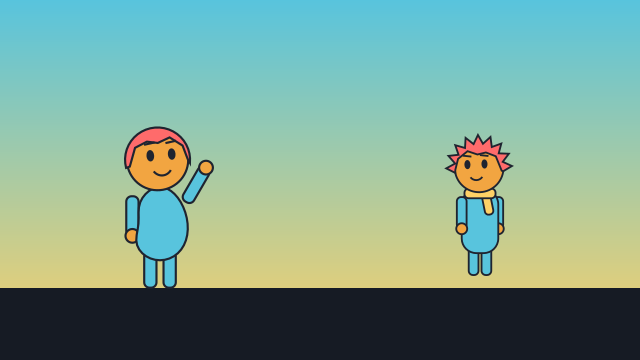
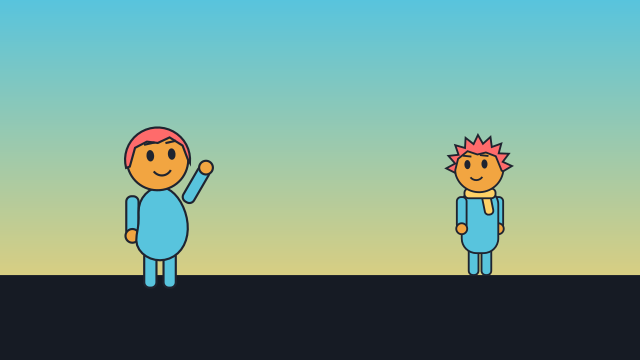
Fix floating stage props and a mouth left behind while speaking
The ground band now reaches up to the deepest thing standing on it
(ground_top), so props and characters at a depth stand on the drawn
ground. A Character keeps one live copy of every part shape for life
(hidden shapes have no points), so a lip-sync swap during a walk, jump,
gesture or keyed motion no longer leaves the old mouth in the list Manim
draws. Tests, DESIGN §69.22, gallery stage media regenerated.

Claude-Session: https://claude.ai/code/session_019dnUhQr2V3uxDgrcPF2jrF

Changed region(s): [[0.0, 0.7639, 1.0, 0.825]]

diff --git a/src/vidgen/cartoon/character.py b/src/vidgen/cartoon/character.py
@@ -183,7 +183,11 @@ class Character(VGroup):
     ``motion`` is its ``cartoon_motion`` setting (``lively``, ``calm``, ``none``; §69.13), read by
     the animations of :mod:`vidgen.cartoon.transition`.
 
-    ``parts`` maps each part name to its live ``VGroup`` (one child: the shape shown).
+    ``parts`` maps each part name to its live ``VGroup``: one child per shape, in
+    :meth:`shape_names` order, all kept for the character's life; the shapes not shown have no
+    points (so Manim draws only the shown one). Its family never changes, so an animation that
+    lists the character's family when it begins draws every frame what is shown, where it is
+    (a swapped-out mouth is never left behind, DESIGN.md §69.22).
     """
 
     def __init__(
@@ -227,7 +231,9 @@ class Character(VGroup):
                 scale_strokes(shape, stroke_factor, stroke_floor)
         # each shape's drawing as point arrays, so a redraw only transforms them (DESIGN.md §69.20)
         self._drawings = {n: {k: shape_drawing(v) for k, v in s.items()} for n, s in self._shapes.items()}
-        self._live: dict[str, tuple[Any, list[VMobject]]] = {}  # part -> (shown child, its members with points)
+        #: part -> shape -> the members of that shape's live copy that are drawn (have points
+        #: when shown), in the order of its drawing
+        self._members: dict[str, dict[str, list[VMobject]]] = {}
         self._pivots = {n: np.array(s.pivot, dtype=float) for n, s in specs.items()}
         self._order = sorted(
             specs,
@@ -253,7 +259,11 @@ class Character(VGroup):
         self._anchor.set_points(np.array([[0, 0, 0], [side, 0, 0], [0, side, 0], [0, side, 0]], dtype=float))
         self.parts: dict[str, VGroup] = {}
         for part_name in self._order:
-            self.parts[part_name] = VGroup(next(iter(self._shapes[part_name].values())).copy())
+            copies = {shape: drawing.copy() for shape, drawing in self._shapes[part_name].items()}
+            self._members[part_name] = {shape: copy.family_members_with_points() for shape, copy in copies.items()}
+            self.parts[part_name] = VGroup(*copies.values())
+            for shape in list(copies)[1:]:  # the rest shape shows
+                self._hide(part_name, shape)
         self.add(self._anchor, *(self.parts[n] for n in self._order))
         self.refresh()
 
@@ -599,19 +609,20 @@ class Character(VGroup):
         self._show_shape(part, before)
 
     def _live_members(self, part: str) -> list[VMobject]:
-        """The members with points of ``part``'s shown shape, found again only when the shape
-        shown changed (a swap puts in a new copy)."""
-        slot = self.parts[part]
-        child = slot.submobjects[0] if slot.submobjects else None
-        cached = self._live.get(part)
-        if cached is None or cached[0] is not child:
-            cached = (child, slot.family_members_with_points())
-            self._live[part] = cached
-        return cached[1]
+        """The drawn members of ``part``'s shown shape (its live copy, kept for the character's
+        life), in the order of the shape's drawing."""
+        return self._members[part][self._shape_name(part)]
+
+    def _hide(self, part: str, shape: str) -> None:
+        """Take the points off ``shape``'s live copy (it stays in the family, not drawn)."""
+        for member in self._members[part][shape]:
+            member.points = np.zeros((0, 3))
 
     def _show_shape(self, part: str, before: str) -> None:
+        """Hide the shape ``before`` when ``part`` now shows another; the next :meth:`refresh`
+        draws the new one (only points change: the family stays as it is, §69.22)."""
         if self._shape_name(part) != before:
-            self.parts[part].submobjects = [self._shapes[part][self._shape_name(part)].copy()]
+            self._hide(part, before)
 
     def _world(self) -> dict[str, np.ndarray]:
         """Each part's matrix in character units: its idle overlay and pose about its pivot, then

diff --git a/tests/test_cartoon_acting.py b/tests/test_cartoon_acting.py
@@ -15,7 +15,7 @@ from vidgen import actions, extensions, registry
 from vidgen.cartoon.acting import CAMERA_EYES_BACK, LOOK_MAX_DEGREES, camera_look, look_pose
 from vidgen.cartoon.cast import ACTION_NEEDS, beat_voice, missing_needs, say_problem, shared_voice_warnings, speaking_characters
 from vidgen.cartoon.character import Character, CharacterState, build_character
-from vidgen.cartoon.transition import PoseChange
+from vidgen.cartoon.transition import Gesture, Jump, KeyedMotion, PoseChange, Walk
 from vidgen.cartoon.visemes import VisemeCue, VisemeTrack
 from vidgen.cli import check_project, validate_warnings
 from vidgen.config import BeatConfig, CharacterEntry, SceneConfig, parse_config
@@ -134,6 +134,54 @@ def test_lip_sync_layer_keeps_the_pose_and_an_emote_while_speaking() -> None:
     assert c.shown_shape("mouth") == "open"   # rest: the new expression's mouth
     c.stop_lip_sync()
     assert c.shown_shape("mouth") == "open"
+
+
+def _moves(c: Character) -> dict[str, Any]:
+    """One of each animation that moves a character (walk_to / enter / exit, jump, gesture,
+    keyframes and move_along, a pose change), made when asked (they read where it stands)."""
+    x0 = float(c.feet()[0])
+    return {
+        "walk": lambda: Walk(c, x0 + 3.0),
+        "enter": lambda: Walk(c, x0, start_x=x0 - 4.0),
+        "jump": lambda: Jump(c),
+        "gesture": lambda: Gesture(c, "wave"),
+        "keyed": lambda: KeyedMotion(c, lambda t: {"x": x0 + 2.0 * t, "y": 0.5 * t, "rotate": 10.0 * t}, run_time=1.0),
+        "pose": lambda: PoseChange(c, pose="pointing", run_time=1.0),
+    }
+
+
+@pytest.mark.parametrize("move", ["walk", "enter", "jump", "gesture", "keyed", "pose"])
+def test_a_speaking_character_takes_its_whole_mouth_along(move: str) -> None:
+    """Manim draws, every frame of an animation, the family members it listed when the
+    animation began (the character's family, flattened). A mouth shape swapped by lip sync while
+    the character moves must not leave the old shape in that list: no stray mouth stays behind
+    where the speaking started, and the mouth stays inside the head (the Step 88 review video)."""
+    from manim.utils.family import extract_mobject_family_members
+
+    track = VisemeTrack(tuple(VisemeCue(k * 0.1, (k + 1) * 0.1, v) for k, v in enumerate("AOMEUOAOEA" * 3)))
+    c = figure()
+    c.start_idle()   # blinks swap the eyes' shape too
+    now = [0.0]
+    c.lip_sync(track, clock=lambda: now[0])
+    animation = _moves(c)[move]()
+    listed = c.get_family()   # what Scene.get_moving_mobjects lists when the animation begins
+    animation.begin()
+    shapes = set()
+    for frame in range(1, FPS + 1):
+        now[0] += FRAME
+        animation.interpolate(frame / FPS)
+        shapes.add(c.shown_shape("mouth"))
+    assert len(shapes) > 2   # the mouth changed shape while it moved
+    drawn = extract_mobject_family_members(listed, only_those_with_points=True)
+    family = {id(m) for m in c.get_family()}
+    assert [m for m in drawn if id(m) not in family] == []   # nothing left behind
+    head = c.parts["head"]
+    low, high = head.get_corner(np.array([-1, -1, 0])), head.get_corner(np.array([1, 1, 0]))
+    mouth = c.parts["mouth"].family_members_with_points()
+    assert mouth and all(m in drawn for m in mouth)
+    for member in mouth:
+        points = member.points[:, :2]
+        assert (points >= low[:2] - 1e-6).all() and (points <= high[:2] + 1e-6).all(), move
 
 
 # ----- the actions on a character (no render) ---------------------------------------------------------

diff --git a/tests/test_cartoon_stage.py b/tests/test_cartoon_stage.py
@@ -20,6 +20,7 @@ from vidgen.cartoon.stage import (
     draw_order,
     facing_towards_centre,
     feet_point,
+    ground_top,
     mark_x,
     stage_layout,
 )
@@ -58,6 +59,35 @@ def test_depth_scales_and_raises() -> None:
     assert depth_scale(0) == 1.0 and depth_scale(1) == FAR_SCALE and depth_scale(0.5) == pytest.approx((1 + FAR_SCALE) / 2)
     assert feet_point(0.5, 0.0, 0.2, 16.0, 8.0) == pytest.approx((0.0, -2.4))   # 0.2 of 8 above the bottom edge (-4)
     assert feet_point(0.25, 1.0, 0.2, 16.0, 8.0) == pytest.approx((-4.0, -2.4 + FAR_RISE * 8))
+
+
+@pytest.mark.parametrize(
+    "params",
+    [
+        {   # examples/cartoon's yard: a house and a tree further back (they floated, Step 88's review)
+            "props": [{"prop": "house", "at": 0.17, "depth": 0.7}, {"prop": "tree", "at": 0.84, "depth": 0.5}, {"prop": "box", "at": 0.43}, "cloud"],
+            "characters": [{"name": "pip", "at": "left"}, {"name": "kit", "at": "right", "depth": 0.3}],
+        },
+        {"ground": 0.0, "characters": [{"name": "pip", "depth": 1.0}], "props": [{"prop": "rock", "depth": 0.2}]},
+        {"ground": 0.35, "characters": ["pip", {"name": "kit", "at": "far_right", "depth": 0.9}]},
+    ],
+)
+def test_everything_on_the_ground_stands_inside_the_ground_band(params: dict[str, Any]) -> None:
+    """The ground band reaches up to the deepest thing standing on it: no prop or character at
+    a depth stands above the drawn ground (props with a ``lift`` hang in the air)."""
+    p = stage_params(**params)
+    fw, fh = 16.0, 9.0
+    top = (ground_top(p.ground, p.items()) - 0.5) * fh   # the band's top edge, as the scene draws it
+    bottom = -fh / 2
+    placements = stage_layout(p.items(), marks=p.marks, ground=p.ground, size=p.size, frame_width=fw, frame_height=fh)
+    lifted = {item.name for item in p.items() if item.lift > 0}
+    standing = [place for place in placements if place.name not in lifted]
+    assert standing and any(place.depth > 0 for place in standing)
+    for place in standing:
+        assert bottom <= place.feet[1] <= top + 1e-9, place.name
+    deepest = max(standing, key=lambda place: place.depth)
+    assert deepest.feet[1] == pytest.approx(top)   # the band ends where the deepest one stands
+    assert ground_top(0.2, [StageItem("sun", "prop", 0.5, depth=1.0, lift=0.5)]) == 0.2   # hanging: not counted
 
 
 def test_draw_order_is_back_to_front_and_stable() -> None:

diff --git a/src/vidgen/scenes/stage.py b/src/vidgen/scenes/stage.py
@@ -253,7 +253,7 @@ class Stage(NarratedScene):
         ground: float = Field(0.2, ge=0.0, le=0.6)
         """Height of the ground line (where the characters' feet are) above the bottom edge, as a fraction of the frame height."""
         ground_color: ThemeColor | Literal[False] | None = None
-        """Fill below the ground line; none: surface on a colour background, nothing on a picture; false: nothing."""
+        """Fill below the ground line, up to where the deepest character or prop on the ground stands; none: surface on a colour background, nothing on a picture; false: nothing."""
         marks: dict[Annotated[str, Field(pattern=r"^[A-Za-z0-9_]+$")], Annotated[float, Field(ge=0.0, le=1.0)]] = {}
         """Own marks: name -> x from 0 (left edge) to 1 (right edge), besides far_left 0.1, left 0.25, centre 0.5, right 0.75, far_right 0.9."""
         characters: list[StageCharacter] = []
@@ -550,8 +550,9 @@ class Stage(NarratedScene):
         ground_color = p.ground_color
         if ground_color is None and not p.has_picture():
             ground_color = DEFAULT_GROUND_COLOR
-        if ground_color and p.ground > 0:
-            band_height = p.ground * fh
+        top = ground_top(p.ground, p.items())  # up to the deepest thing standing on it (§69.6)
+        if ground_color and top > 0:
+            band_height = top * fh
             band = Rectangle(width=fw, height=band_height, stroke_width=0)
             band.set_fill(resolve_color(ground_color, self.theme), opacity=1.0)
             band.move_to([0.0, -fh / 2 + band_height / 2, 0.0])

diff --git a/src/vidgen/cartoon/stage.py b/src/vidgen/cartoon/stage.py
@@ -103,6 +103,15 @@ def feet_point(x_fraction: float, depth: float, ground: float, frame_width: floa
     return (x, y)
 
 
+def ground_top(ground: float, items: Sequence[StageItem] = ()) -> float:
+    """The top of the ground area (a fraction of the frame height above the bottom edge): the
+    ground line, or higher, the line where the deepest item standing on the ground (``lift`` 0)
+    stands, so everything at a depth stands on the drawn ground, not above it (§69.6). Items
+    with a ``lift`` hang in the air and do not count."""
+    depths = [item.depth for item in items if item.lift == 0]
+    return ground + FAR_RISE * max(depths, default=0.0)
+
+
 def draw_order(depths: Sequence[float]) -> list[int]:
     """Indices of ``depths`` from the back to the front: deeper first, ties in list order."""
     return sorted(range(len(depths)), key=lambda i: (-depths[i], i))
@@ -193,6 +202,7 @@ __all__ = [
     "draw_order",
     "facing_towards_centre",
     "feet_point",
+    "ground_top",
     "known_marks",
     "layer_half_extent",
     "layer_transform",

diff --git a/tests/test_cartoon_props.py b/tests/test_cartoon_props.py
@@ -178,6 +178,7 @@ def test_stage_renders_props(make_project, tmp_path: Path) -> None:
     named = {obj["name"]: obj for obj in objects if obj["name"]}
     assert [named[n]["kind"] for n in ("tree", "sun", "table", "well", "pip")] == ["prop"] * 4 + ["character"]
     assert named["tree"]["order"] < named["table"]["order"] < named["pip"]["order"]   # back to front; a character in front of a prop
+    assert named["ground"]["bbox"][1] <= named["tree"]["bbox"][3] + 0.5   # the band reaches up to the tree at depth 0.6
 
 
 @pytest.mark.render

diff --git a/src/vidgen/api.py b/src/vidgen/api.py
@@ -152,6 +152,7 @@ from vidgen.cartoon.stage import (  # noqa: E402
     StagePlacement,
     facing_towards_centre,
     feet_point,
+    ground_top,
     layer_half_extent,
     layer_transform,
     mark_x,
@@ -426,6 +427,7 @@ VIDGEN_NAMES: tuple[str, ...] = (
     "part_target_names",
     "path_length",
     "feet_point",
+    "ground_top",
     "MARKS",
     "StageItem",
     "StagePlacement",

diff --git a/DESIGN.md b/DESIGN.md
@@ -686,6 +686,7 @@ Step 84 (§69.17) adds to `Character` the attributes `looked_at` and `passage` a
 Step 86 (§69.19) adds `PlayedAction`, `FoleyCue`, `foley_cues`, the `NarratedScene` hook
 `action_foley(action, options, animations, start, seconds)` (does nothing by default), `Walk.heights`
 and `Walk.phases` / `Jump.phases`, and compatibly the `SfxEvent` field `duck` (default `False`).
+The fixes after Step 88 (§69.22) add `ground_top` (compatible).
 Anything not exported from `vidgen.api` is internal and may change.
 
 ### 6.5 Refinements (Step 2)
@@ -4932,7 +4933,7 @@ take `CharacterName` options.
 - **API**: `set_part(part, angle=, scale=, shift=, shape=)` (values not given keep the pose),
   `swap(part, shape)`, `reset(part=None)`, `face`, `turn`, `state()` → `CharacterState(facing,
   parts)`, `set_state(state)`, `pose_of`, `shape_names`, `parent_of`, `has_part`, `draw_order`,
-  `parts` (name → live `VGroup`). All changes return the character (chainable). Animate poses by
+  `parts` (name → live `VGroup`; since §69.22 one child per shape, only the shown one has points). All changes return the character (chainable). Animate poses by
   calling `set_part` / `set_state` from an updater, or with `PoseChange` (§69.3);
   `.animate.set_part(...)` would interpolate points linearly (a chord, not an arc).
   `copy()` is a deep copy with its own poses.
@@ -5278,7 +5279,8 @@ lint, Step 84) reuse it.
   gradient: one `Rectangle` filled with the colours, `sheen_direction` DOWN, first colour at the
   top); none: nothing drawn (the theme's background). `image` with `generate`, or either with
   `background`, is an error. `ground` (0..0.6, default 0.2); `ground_color` (a band from the
-  ground line to the bottom edge, named `ground`; default `surface` without a picture, nothing
+  bottom edge up to `ground_top(ground, items)`: the ground line, or the line where the deepest
+  character or prop on the ground stands, §69.22; named `ground`; default `surface` without a picture, nothing
   with one; `false`: nothing). `marks` (identifier -> 0..1). `size` (0.45). `idle` (true). `cartoon_motion` (none: the video's; §69.13).
   `characters: list[StageCharacter]` (a string is the name): `name: CharacterName`, `at` (mark or
   x), `depth` 0..1, `scale` (0, 3], `facing` `auto | right | left`, `pose`, `expression` (none:
@@ -6106,7 +6108,8 @@ time to save:
 - **Part drawings, transformed only** (`cartoon/character.py`): each part shape's points are
   kept once per character (`shape_drawing`: the point arrays of its family members with points),
   and the live members of each part's shown shape are found again only when the shape shown
-  changes (`_live_members`, keyed by the shown child). `refresh` then only applies the matrices:
+  changes (`_live_members`, keyed by the shown child; since §69.22 each shape keeps one live
+  copy and its members are listed once). `refresh` then only applies the matrices:
   1.25 → 0.58 s in `yard`.
 - **Part drawings by look** (`look_parts(look, colors)`, `look_key`): the generator's parts for
   a look in resolved colours are drawn once per process and shared (a `Character` copies the
@@ -6154,3 +6157,47 @@ time to save:
   Not fixed (Manim's encoder options are not reachable from vidgen; changing the preview size
   would change every preview): compare renders by their frames before encoding, or at sizes that
   are multiples of 16. Backlog.
+
+### 69.22 Fixes after the Phase H review: the ground under the set, the mouth while moving
+
+Two faults the owner saw in the Step 88 review video (`examples/cartoon` at 1280x720):
+
+- **Props standing above the ground**: a thing at `depth` d stands `FAR_RISE` × d of the frame
+  height above the ground line (`feet_point`), but the `ground_color` band ended at the ground
+  line, so the house (depth 0.7) and the tree (0.5) in `yard` stood on the sky. The band now
+  reaches up to `ground_top(ground, items)` (`cartoon/stage.py`, exported): `ground + FAR_RISE ×`
+  the largest depth of the items on the ground (`lift` 0; a lifted sun or cloud hangs in the air
+  and does not count), so everything at a depth stands inside the drawn ground and the deepest
+  thing on its top edge, as a thing at depth 0 stood on the band's edge before. The depth
+  geometry itself is unchanged (feet, sizes, `grounds` for `keyframes` y 0), so characters,
+  props, walks and lint keep their places; only the band grows, and only on stages with
+  something at a depth (the gallery's `stage` sample, `kit` at 0.3, changed a little). Chosen
+  over keeping the lift inside a fixed band (which would move every depth-0 thing down) and over
+  a band always up to depth 1 (which would change every stage). Layers: `background` and
+  `middle` layers are drawn behind the band, so its taller top covers a little more of their
+  lower part (hills keep their tops; a layer meant to sit on the horizon goes at a `y` at or
+  above `ground_top`). A picture (`image`, `generate`) has no band unless `ground_color` is
+  given (then the same rule); its own floor must reach up to where its deepest things stand.
+  Test: `tests/test_cartoon_stage.py` (every placement on the ground lies between the bottom
+  edge and the band's top, for the example's yard and two more stages) and the props render test
+  (the band's top is at or above the tree at depth 0.6).
+- **A mouth left behind**: while `dot` walked and spoke, a copy of her mouth stayed where the walk
+  began. Lip sync (and blinks, expressions) changed a part's shape by replacing the part slot's
+  child with a fresh copy of the shape. Manim lists, when an animation begins, the moving
+  mobjects as the flattened families (`Scene.get_moving_mobjects` returns family members), and
+  draws that list on every frame: the replaced child stayed in the list, no longer in the
+  character, so `shift` and `refresh` no longer moved it, and it was drawn where it was when it
+  was swapped out (the camera's follow path lists the same way). The same held for every
+  animation on a speaking or blinking character (walk, enter, exit, jump, gesture, keyframes,
+  `move_along`, pose changes). Now a `Character` keeps one live copy of every shape of every
+  part for its whole life (`parts[name]` holds them in `shape_names` order); the shapes not shown
+  have no points, so Manim draws only the shown one, and a swap only moves points (the old
+  shape's are emptied, `refresh` draws the new one). The family never changes, so any list made
+  from it stays right, and a style set on the character (a fade, `dim`) is kept by every shape.
+  Cost: a few more family members per character (the hidden shapes, not drawn). Test:
+  `tests/test_cartoon_acting.py` (for a walk, an entrance, a jump, a gesture, a keyed motion and
+  a pose change of a speaking, blinking character: what Manim would draw from the list made at
+  the start holds nothing outside the character, and every mouth point lies in the head's box;
+  it failed for all six before the fix).
+- **The review video again**: `/home/claude/work/phase-h-review/cartoon_review_v2.mp4` (the same
+  scratch copy and Kokoro audio, 1280x720, 59.93 s).

diff --git a/HANDOFF.md b/HANDOFF.md
@@ -8247,3 +8247,41 @@ How to test
   tests/test_builtin_scenes.py` (483, 12 s); `-m render tests/test_cartoon_*.py` (16, 7 s);
   `-m render tests/test_builtin_scenes.py -k stage` (2, 2 s); `-m render
   tests/test_phase_h_review.py` (1, 16 s). The full suite was not run (not asked).
+
+## Step 88a — Fix floating stage props and a mouth left behind while speaking
+
+What was done (two faults the owner saw in `cartoon_review.mp4`; DESIGN §69.22)
+- **Floating set**: things at `depth` d stand `FAR_RISE` × d above the ground line, but the
+  `ground_color` band stopped at the ground line, so the house (0.7) and tree (0.5) in `yard`
+  stood on the sky. New `ground_top(ground, items)` (`cartoon/stage.py`, exported from
+  `vidgen.api`): the ground line raised to where the deepest item with `lift` 0 stands; the
+  stage's band goes up to it. Depth geometry, walks, keyframes and lint are unchanged; stages
+  without depth look as before. A picture still has no band unless `ground_color` is given.
+- **Mouth left behind**: lip sync (and blinks / expressions) swapped a part slot's child for a
+  fresh copy. Manim lists the flattened family when an animation begins and draws that list every
+  frame, so the swapped-out mouth stayed drawn where the walk began. A `Character` now keeps one
+  live copy of every shape of each part for life; hidden shapes have no points; a swap only
+  empties / redraws points. Covers walk, enter, exit, jump, gesture, keyframes, `move_along`,
+  pose changes and the camera follow path (all use the same family list).
+- Review video again (same scratch copy `cartoon_tts`'s audio and YAML in
+  `scratchpad/fix2/proj`, 1280x720, 68 s wall, capped): `/home/claude/work/phase-h-review/
+  cartoon_review_v2.mp4` (59.93 s). Stills: at 6 s the house and tree stand on the green; dot's
+  walk at 15.3–16.5 s shows one mouth, moving with her (before: a dark mouth stayed on the door).
+- Gallery `stage` regenerated (`kit` at depth 0.3: the band slightly higher).
+
+Files touched
+- `src/vidgen/cartoon/character.py`, `src/vidgen/cartoon/stage.py`, `src/vidgen/scenes/stage.py`,
+  `src/vidgen/api.py`, `DESIGN.md` (§6.4, §69 Character, §69.6, §69.20, new §69.22), `docs/CONFIG.md`,
+  `src/vidgen/data/guide/AGENTS.md` (+ `AGENTS.md`), `docs/gallery/stage.md` + media,
+  `tasklist.md`, tests `test_cartoon_acting.py`, `test_cartoon_stage.py`, `test_cartoon_props.py`.
+
+Public interfaces
+- Added `ground_top` (compatible). `Character.parts[name]` now holds one child per shape (only
+  the shown one has points) instead of one child.
+
+How to test
+- `-m "not render" tests/test_docs.py tests/test_guide.py tests/test_gallery.py
+  tests/test_schema.py tests/test_phase_h_review.py tests/test_cartoon_*.py` (547 passed);
+  `-m render tests/test_cartoon_*.py tests/test_phase_h_review.py` (17 passed); `-m render
+  tests/test_builtin_scenes.py -k stage` (2 passed). The new mouth test failed for all six
+  motions before the fix.

diff --git a/docs/CONFIG.md b/docs/CONFIG.md
@@ -3879,7 +3879,7 @@ never leaves the stage.
 | `generate` | str \| mapping | none | a generated background instead of `image` (not both): the prompt, or `{prompt, negative, style, aspect, seed, format}`, with the video's [`cartoon_style`](#generated-backgrounds-cartoon_style) added; leave room for the characters (an empty middle, the ground visible) |
 | `background` | color \| list of colors | none | without a picture: one colour, or two or more for a gradient from the top down; none: the theme's background |
 | `ground` | float 0–0.6 | `0.2` | height of the ground line above the bottom edge, as a fraction of the frame height |
-| `ground_color` | color \| `false` | none | fill below the ground line; none: `surface` on a colour background, nothing on a picture; `false`: nothing |
+| `ground_color` | color \| `false` | none | fill below the ground line, up to where the deepest character or prop on the ground (no `lift`) stands, so things at a `depth` stand on it; none: `surface` on a colour background, nothing on a picture; `false`: nothing |
 | `marks` | mapping | `{}` | own marks, name -> x from 0 to 1 (`{door: 0.85}`); a built-in name moves that mark |
 | `characters` | list | `[]` | the characters on the stage: a name, or a mapping (below); each at most once |
 | `size` | float | `0.45` | height of a character at depth 0, as a fraction of the frame's shorter side |

diff --git a/docs/gallery/stage.md b/docs/gallery/stage.md
@@ -47,7 +47,7 @@ scenes:
 | `generate.format` | `'png' \| 'svg'` | `'png'` | png: a raster picture; svg: a vector picture drawn as shapes (provider openrouter with an SVG model, e.g. imagegen.svg_model: recraft/recraft-v4.1-vector; good for flat illustrations, not photos). |
 | `background` | `color \| list[color] \| None` |  | Without a picture: a colour, or a list of colours for a gradient from the top down; none: the theme's background. |
 | `ground` | `float` | `0.2` | Height of the ground line (where the characters' feet are) above the bottom edge, as a fraction of the frame height. |
-| `ground_color` | `color \| False \| None` |  | Fill below the ground line; none: surface on a colour background, nothing on a picture; false: nothing. |
+| `ground_color` | `color \| False \| None` |  | Fill below the ground line, up to where the deepest character or prop on the ground stands; none: surface on a colour background, nothing on a picture; false: nothing. |
 | `marks` | `dict[str, float]` |  | Own marks: name -> x from 0 (left edge) to 1 (right edge), besides far_left 0.1, left 0.25, centre 0.5, right 0.75, far_right 0.9. |
 | `characters` | `list[str \| StageCharacter]` |  | The characters on the stage: a name, or {name, at, depth, scale, facing, pose, expression}. |
 | `characters.name` | `str` | required | A character of the video's characters: list. |

diff --git a/tasklist.md b/tasklist.md
@@ -444,6 +444,7 @@ one.
 
 ### Step 88 — Review of Phase H
 - [x] End to end with mocks: the cartoon example through validate, lint, storyboard, character sheet and a preview render; docs consistency (CONFIG.md, DESIGN.md, AGENTS.md); targeted tests for Phase H, then the full suite only if the owner asks (CLI and MCP on the example; `tests/test_phase_h_review.py`; the stage JSON Schema takes bare names again; real Kokoro narration and a 1280x720 render checked by eye; the `yard` difference traced to x264 at non-mod-16 widths; Phase H gaps moved to the Backlog; full suite not run: not asked)
+- [x] Fixes after the review (owner): props and characters at a depth stood above the ground band (the band now reaches up to the deepest thing on the ground, `ground_top`); a speaking character that moved left a copy of its mouth behind (a `Character` keeps one live copy per shape, its family never changes); review video re-rendered as `cartoon_review_v2.mp4` (DESIGN §69.22)
 
 ---
 
